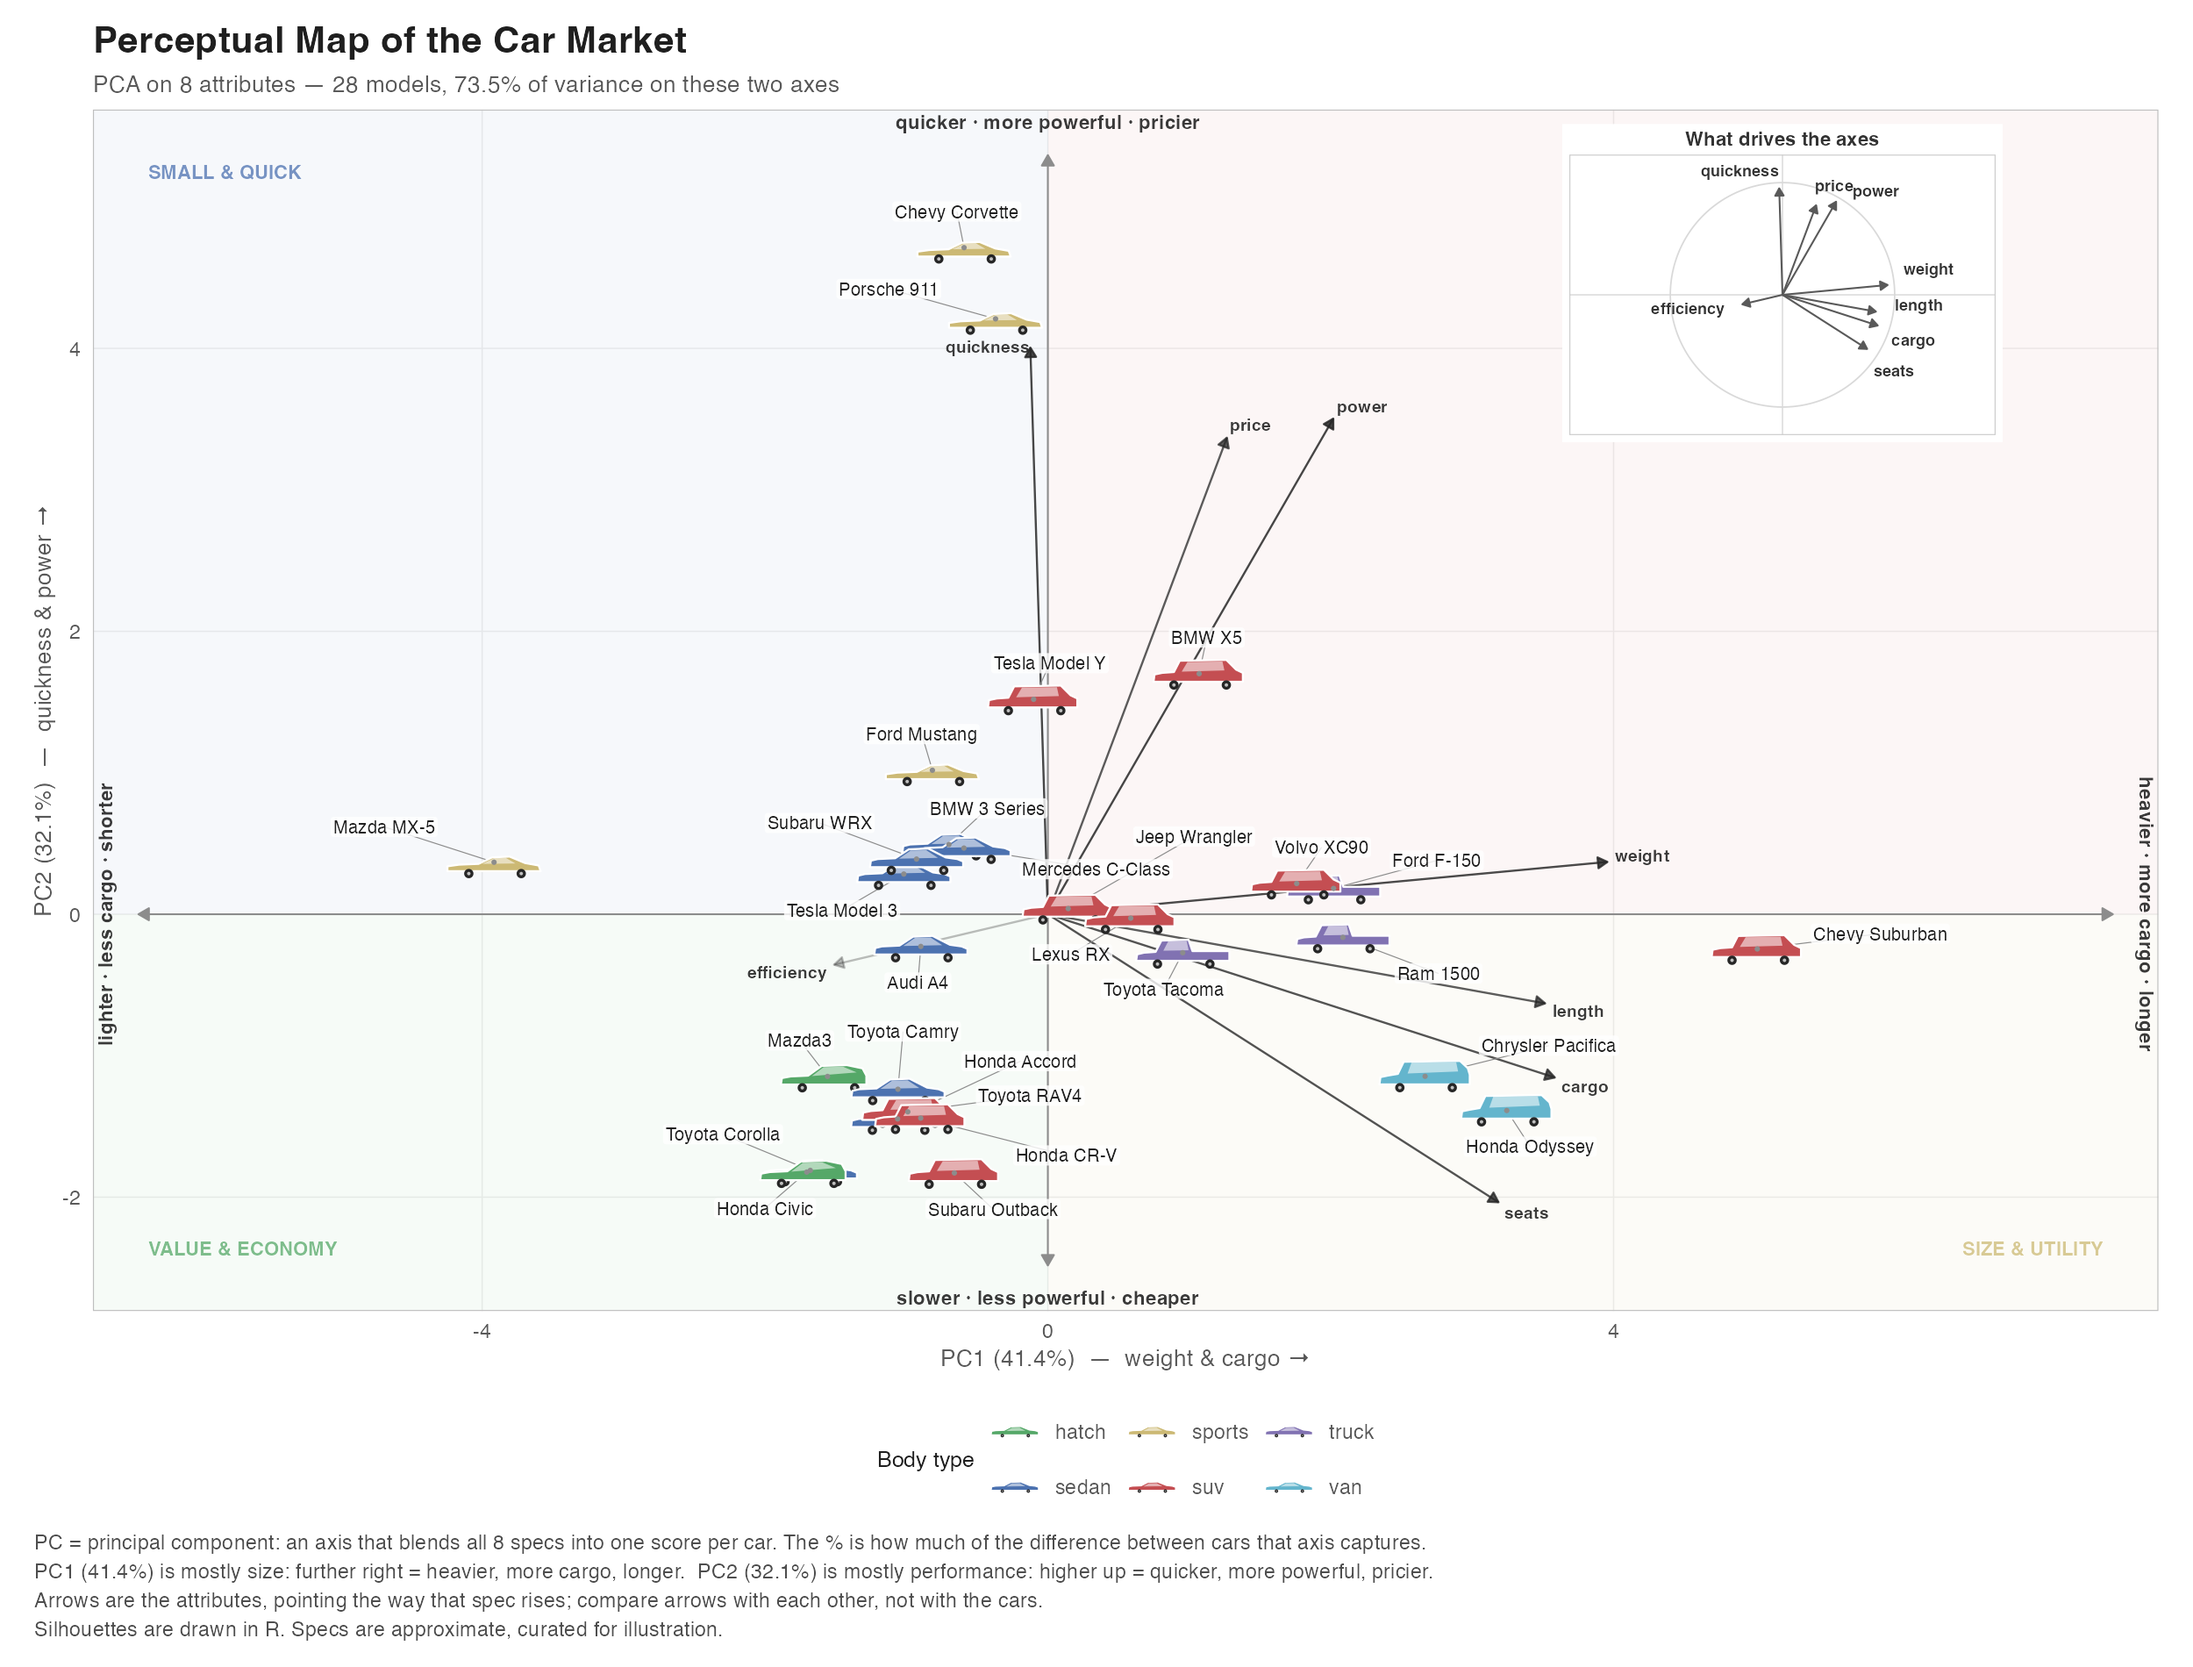
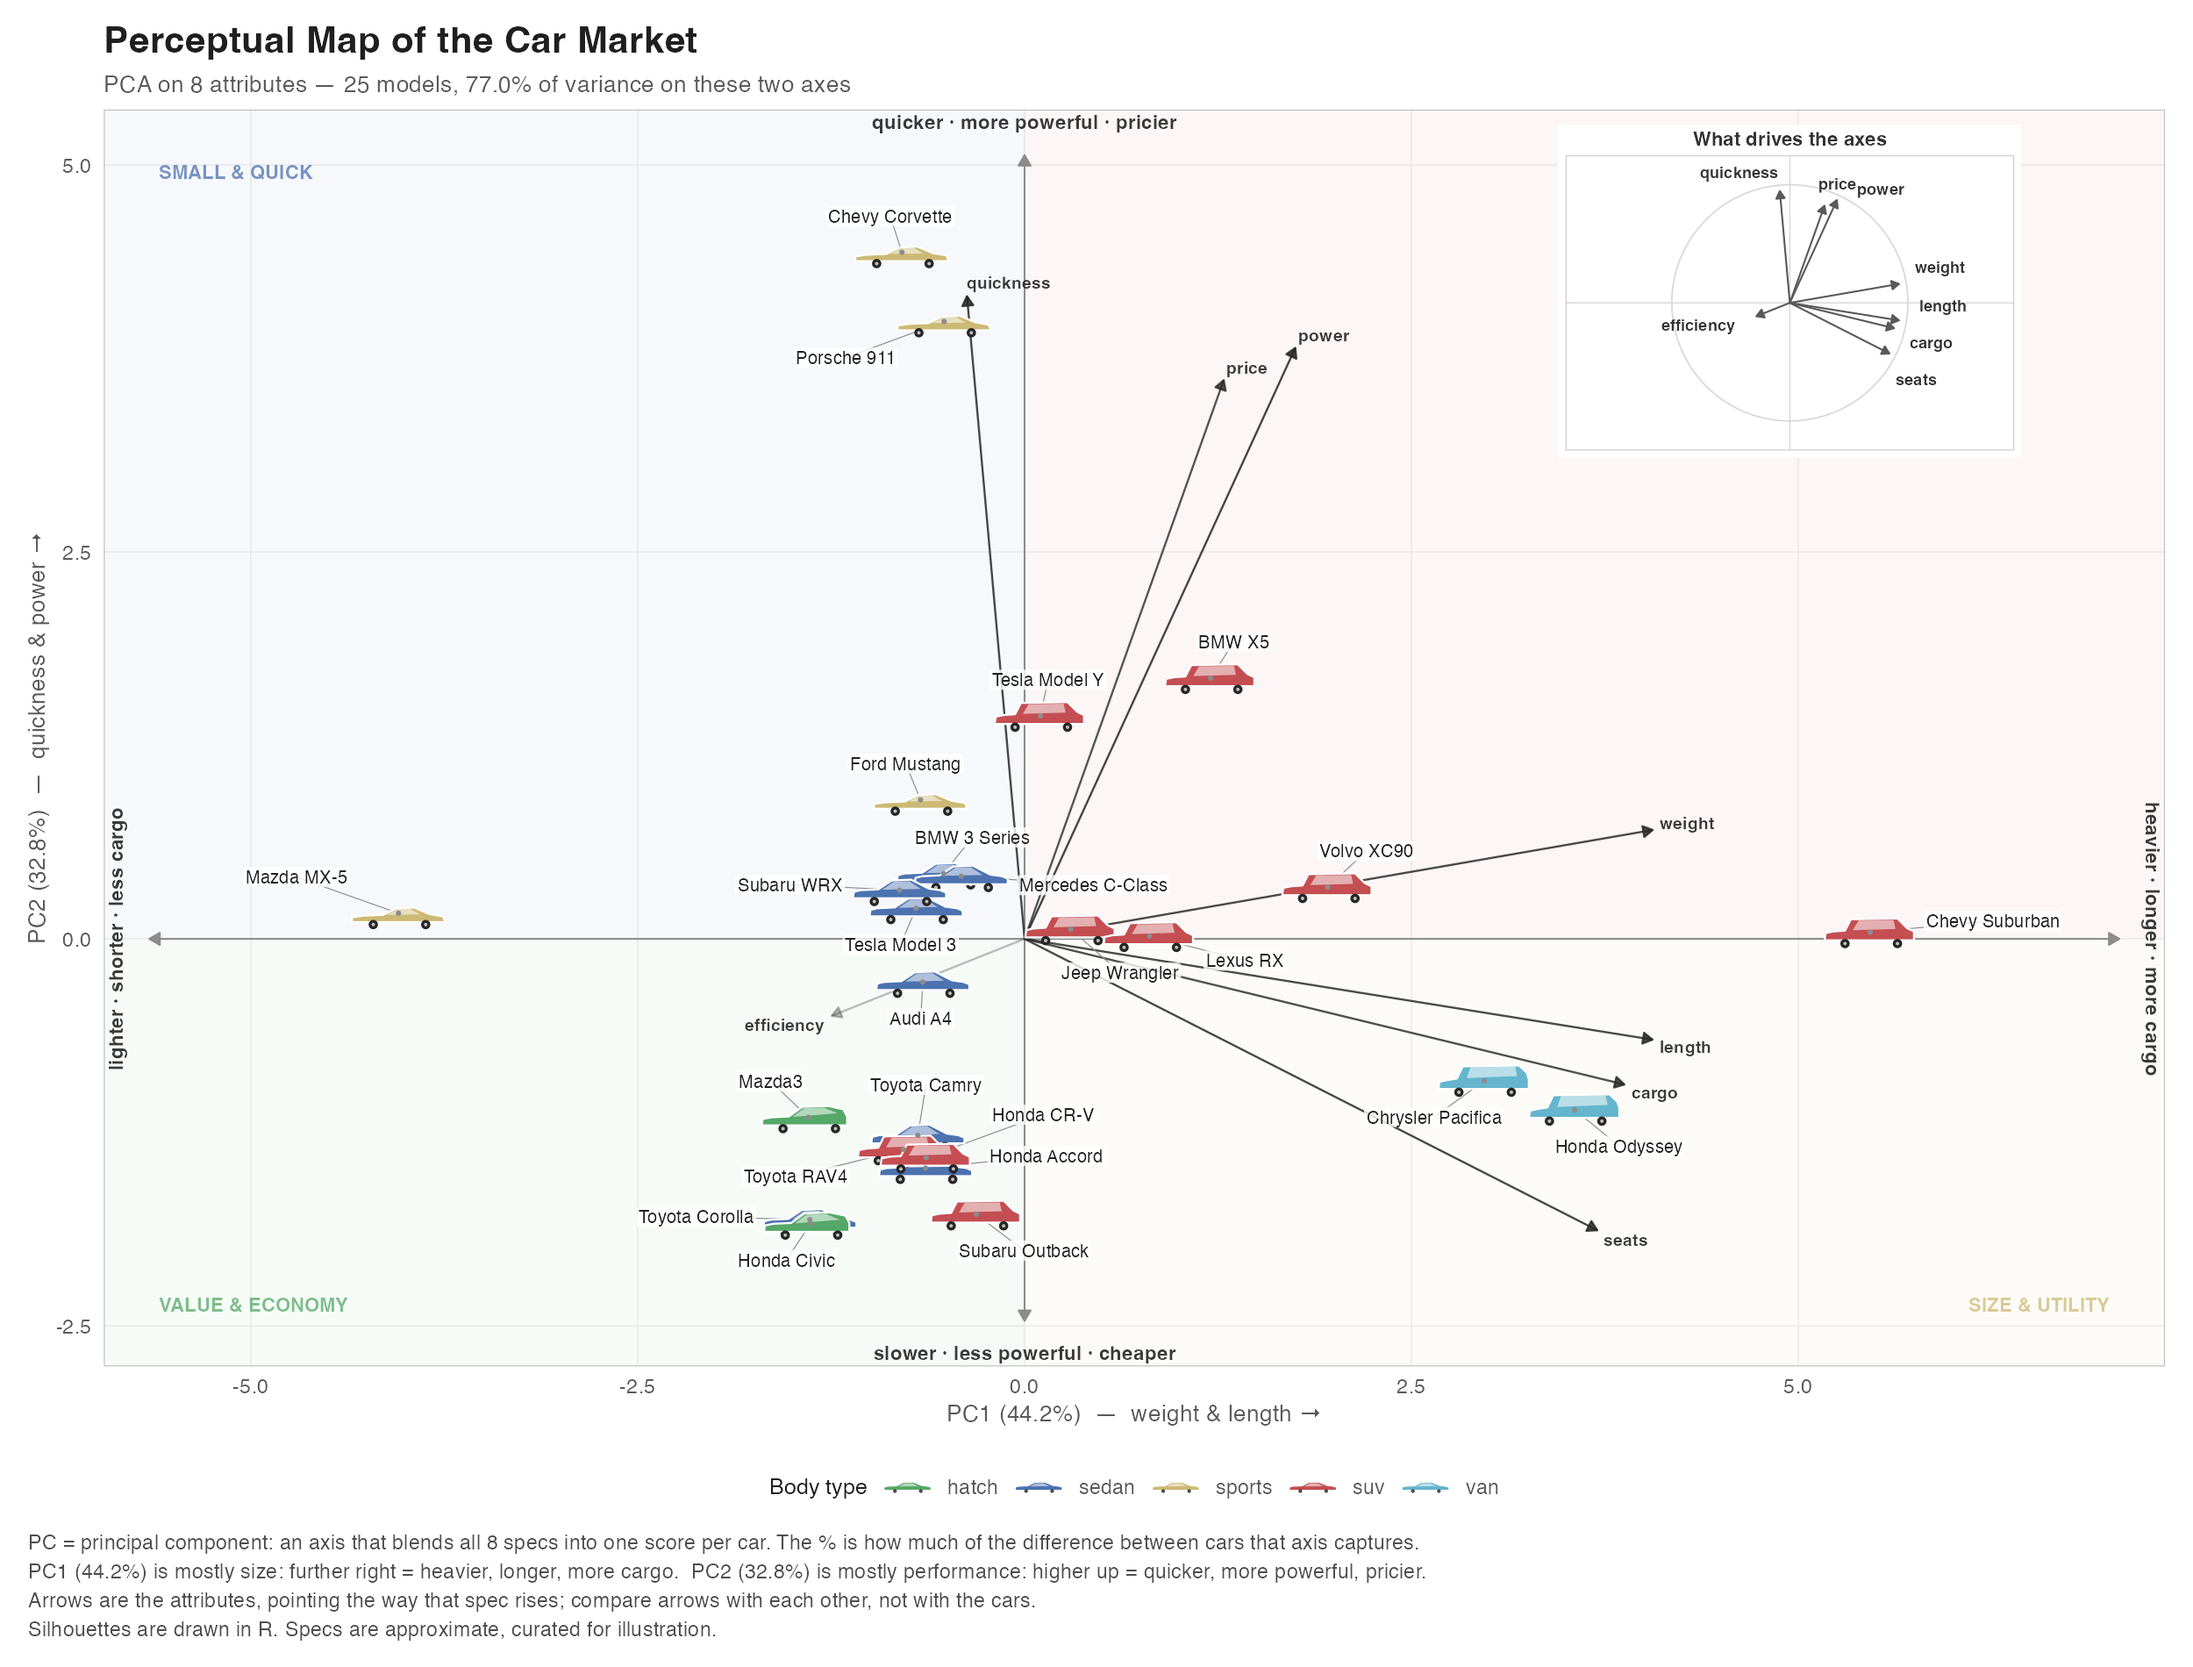
Remove the pickup trucks from the dataset
Drops Ford F-150, Ram 1500 and Toyota Tacoma, leaving 25 models across 5 body
types. The PCA refits: PC1 is still size (41.4% -> 44.2%) and PC2 still
performance (32.1% -> 32.8%), and the two axes now carry 77.0% of the
variance between them rather than 73.5%. With the trucks gone, length ties
with weight as the strongest spec on PC1, so the x-axis title reads
"weight & length".

The sidebar's body-type checkboxes are now built from the body types the data
actually contains, so removing every car of a type does not leave a checkbox
that filters nothing. BODY_LEVELS still holds the canonical order and the
truck silhouette, so putting trucks back is just a matter of restoring the
rows.

Harness still reports 0 overlaps; the static exports are regenerated.

diff --git a/README.md b/README.md
@@ -44,7 +44,7 @@ patchwork, scales, grid, ragg**. Nothing to install.
 - **Labels never overlap**, at any window size. Each car's name takes the
   first clear spot near it, most distinctive cars first. On a narrow window the
   label text shrinks just enough for every name to fit, down to a 5pt floor;
-  all 28 still fit at a 450px-wide plot. Below that, any name with no room is
+  all 25 still fit at a 450px-wide plot. Below that, any name with no room is
   left off and the key says how many — zoom in or widen the window to bring
   them back.
 - **Body types**, silhouette size, labels, quadrants, hulls.
@@ -85,7 +85,7 @@ so **73.5%** of the variance is on the two axes you see.
 
 | Path | What it does |
 |---|---|
-| `data/cars.csv` | 28 models x 8 attributes. Edit or extend it; nothing else needs changing. |
+| `data/cars.csv` | 25 models x 8 attributes. Edit or extend it; nothing else needs changing. |
 | `R/silhouettes.R` | Body-type polygon shapes, `car_grob()`, and the `GeomCar` ggplot2 geom. |
 | `R/pca.R` | `fit_map()`, transforms, sign pinning, `axis_name()`. |
 | `R/layout.R` | Layout measurement, aspect fitting, label placement, quadrant tags, inset corner picking. |
